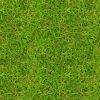
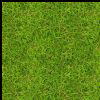
2d editor textures & Karel rotation

Changed region(s): [[0.0, 0.0, 1.0, 1.0]]

diff --git a/js/karel-map-editor.js b/js/karel-map-editor.js
@@ -44,6 +44,12 @@ function KarelMapEditor(elem) {
     this.karelFinalFlipped=false;
     this.finalMapEdited=false;
     this.canvasFontSize="11px";
+
+    this.spriteCellSize=66;
+    this.spriteBeeperSize=34;
+    this.scaleFactor=1;
+    this.realCellSize=this.scaleFactor*this.spriteCellSize;
+
     this.addPhaser();
 
 }
@@ -68,17 +74,12 @@ KarelMapEditor.prototype.phaserInit = function () {
     var obj=this;
 
     var preload=function() {
-        obj.game.load.spritesheet('presets', 'img/tmw_desert_spacing.png',obj.spriteCellSize,obj.spriteCellSize);
-        obj.game.load.image('beeper', 'img/aqua_ball.png');
-        obj.game.load.image('karel', 'img/val1.png');
-        obj.game.load.image('karelFlipped', 'img/val3.png');
-        obj.game.load.image('btn_plus', 'img/plus.png');
-        obj.game.load.image('btn_minus', 'img/minus.png');
-        obj.game.load.image('btn_save', 'img/btn_save.png');
-        obj.game.load.image('btn_restore', 'img/btn_restore.png');
-        obj.game.load.image('btn_start_map', 'img/btn_start_map.png');
-        obj.game.load.image('btn_final_map', 'img/btn_final_map.png');
-        obj.game.load.image('btn_quit', 'img/btn_quit.png');
+        obj.game.load.image('wall', 'img/2d_wall.jpg');
+        obj.game.load.image('empty', 'img/2d_grass.jpg');
+        obj.game.load.image('beeper', 'img/beeper_new.png');
+        obj.game.load.image('karel', 'img/new_rob_1.png');
+        obj.game.load.image('karelFlipped', 'img/new_rob_3.png');
+        obj.game.load.image("background", "img/fioletovyj-fon19.jpg");
     };
 
     function addBeepersToCell(x,y, num){
@@ -265,11 +266,16 @@ KarelMapEditor.prototype.phaserInit = function () {
             obj.createDropBeeperProperties(obj.sprRMenuBeeper);
 
             var sx=startX+offsetX;
-            var sy=curY+obj.spriteCellSize*obj.scaleFactor+offsetY/2;
-            obj.karelStart=obj.createKarelSprite(sx, sy);
+            curY=curY+obj.spriteCellSize*obj.scaleFactor+offsetY/2;
+            obj.karelStart=obj.createKarelSprite(sx, curY);
             obj.createDropKarelProperties(obj.karelStart);
             obj.karelStartX=sx;
-            obj.karelStartY=sy;
+            obj.karelStartY=curY;
+
+            curY=curY+obj.spriteCellSize*obj.scaleFactor+offsetY/2;
+            addTextAtCenter(curY+3,"click to Karel", 16, "white");
+            curY=curY+offsetY/1.5;
+            addTextAtCenter(curY+3,"for rotate", 16, "white");
 
             //curY+=obj.spriteCellSize*obj.scaleFactor+offsetX*2;
             //addTextAtCenter(curY+3,"Map's switch", 20, "yellow");
@@ -302,10 +308,6 @@ KarelMapEditor.prototype.phaserInit = function () {
     var update= function () {
     };
 
-    this.spriteCellSize=33;
-    this.spriteBeeperSize=17;
-    this.scaleFactor=2;
-    this.realCellSize=this.scaleFactor*this.spriteCellSize;
     this.karelOffset=3;
 
     var divForPhaser=this.element[0];
@@ -506,14 +508,14 @@ KarelMapEditor.prototype.addEmptyCell=function (x,y){
     return this.createCellSprite(realX,realY,"empty");
 };
 KarelMapEditor.prototype.createCellSprite=function (realX, realY, name, toTop) {
-    var spr=this.game.add.sprite(realX, realY, 'presets');
+    if(name=="wall")
+        var spr=this.game.add.sprite(realX, realY, 'wall');
+    else
+        var spr=this.game.add.sprite(realX, realY, 'empty');
     if(toTop==undefined)
         this.game.world.sendToBack(spr);
-    if(name=="wall")
-        spr.frame = 9; // wall
-    else
-        spr.frame = 33; // road
-    spr.scale.setTo(this.scaleFactor,this.scaleFactor);
+    var cellScaleFactor=this.scaleFactor*this.realCellSize/spr.height;
+    spr.scale.setTo(cellScaleFactor,cellScaleFactor);
     var xy=this.findMapXY(realX,realY);
     spr.name=name+" x"+xy.x+"y"+xy.y+"fr"+spr.frame;
     return spr;
@@ -599,7 +601,11 @@ KarelMapEditor.prototype.addWallCell=function (x,y){
 };
 KarelMapEditor.prototype.createBeeperSprite=function (realX, realY, beeperScaleFactor) {
     var spr=this.game.add.sprite(realX, realY, 'beeper');
-    spr.scale.setTo(beeperScaleFactor,beeperScaleFactor);
+    this.beeperScaleFactor=this.scaleFactor*this.realCellSize/spr.height/4;
+    var sc=this.beeperScaleFactor;
+    if(beeperScaleFactor)
+        sc*=beeperScaleFactor;
+    spr.scale.setTo(sc,sc);
     return spr;
 };
 KarelMapEditor.prototype.createDropBeeperProperties=function (elem) {
@@ -607,7 +613,7 @@ KarelMapEditor.prototype.createDropBeeperProperties=function (elem) {
     function onDragStop(sprite, pointer) {
         function addBeeperSpriteOnMap(mapXY, sprite) {
             sprite.name="beeperx"+mapXY.x+"y"+mapXY.y;
-            sprite.scale.setTo(1,1);
+            sprite.scale.setTo(obj.beeperScaleFactor,obj.beeperScaleFactor);
             obj.currentMap[mapXY.y][mapXY.x].cellBeepersSprites.push(sprite);
         }
         function createNewRMenuBeeperSprite() {
@@ -668,7 +674,7 @@ KarelMapEditor.prototype.createKarelSprite=function (x,y,angle){
     else
         var _karelImg='karelFlipped';
     var spr=obj.game.add.sprite(x, y, _karelImg);
-    var sc=obj.spriteCellSize*obj.scaleFactor/spr.height;
+    var sc=obj.scaleFactor*obj.realCellSize/spr.height;
     obj.karelScaleFactor=sc;
     spr.scale.setTo(sc,sc);
     spr.anchor.setTo(0.5, 0.5);

diff --git a/js/karel-2d-player.js b/js/karel-2d-player.js
@@ -454,7 +454,7 @@ Karel2dPlayer.prototype.rotateKarelSprite=function (param) {
         }
     });
     bounce.start();
-}
+};
 
 Karel2dPlayer.prototype.flipKarelSprite=function (param) {
     var obj=this;
@@ -560,6 +560,11 @@ Karel2dPlayer.prototype.play = function (incomingCommands,onPlayerFinish) {
     this.arMoves=this.fillArMovies(incomingCommands);
     this.incomingCommands=incomingCommands.slice();
     this.onPlayerFinish=onPlayerFinish;
+
+    this.game.lockRender = false;
+    this.game.paused = false;
+    this.game.stage.disableVisibilityChange = false;
+
     this.karelDancingBounce.resume();
 
     //this.music.volume=0.5;
@@ -600,6 +605,9 @@ Karel2dPlayer.prototype.allFinished=function(){
     console.log("all finished");
     this.arMoves=false;
     this.karelDancingBounce.pause();
+    this.game.lockRender = true;
+    this.game.paused = true;
+    this.game.stage.disableVisibilityChange = true;
     //this.music.stop();
 };
 
